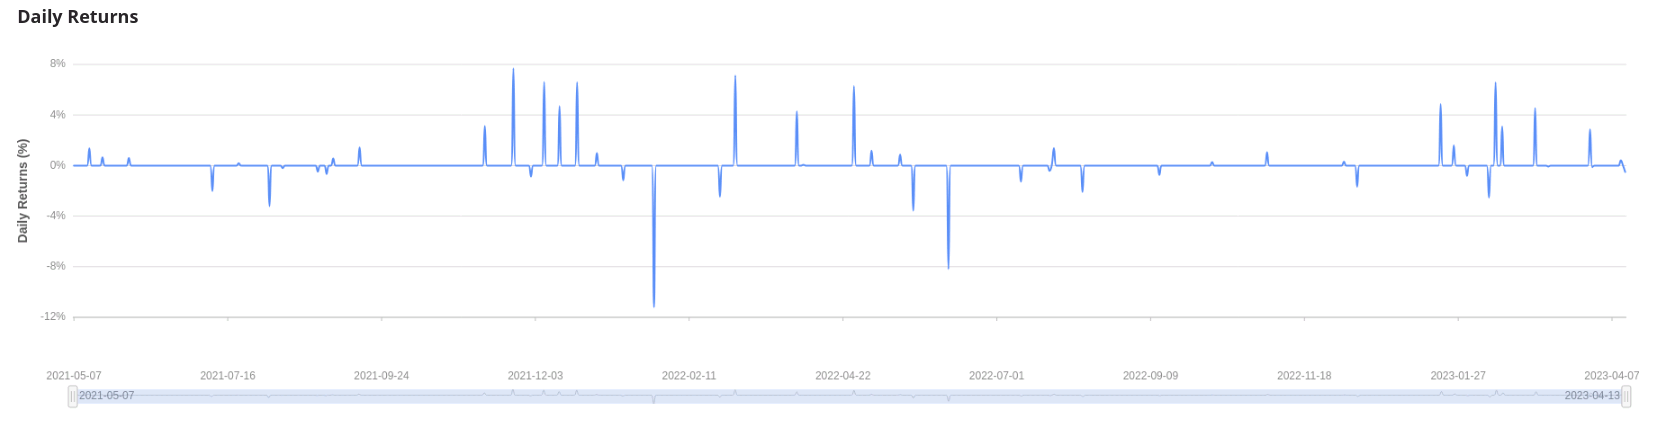
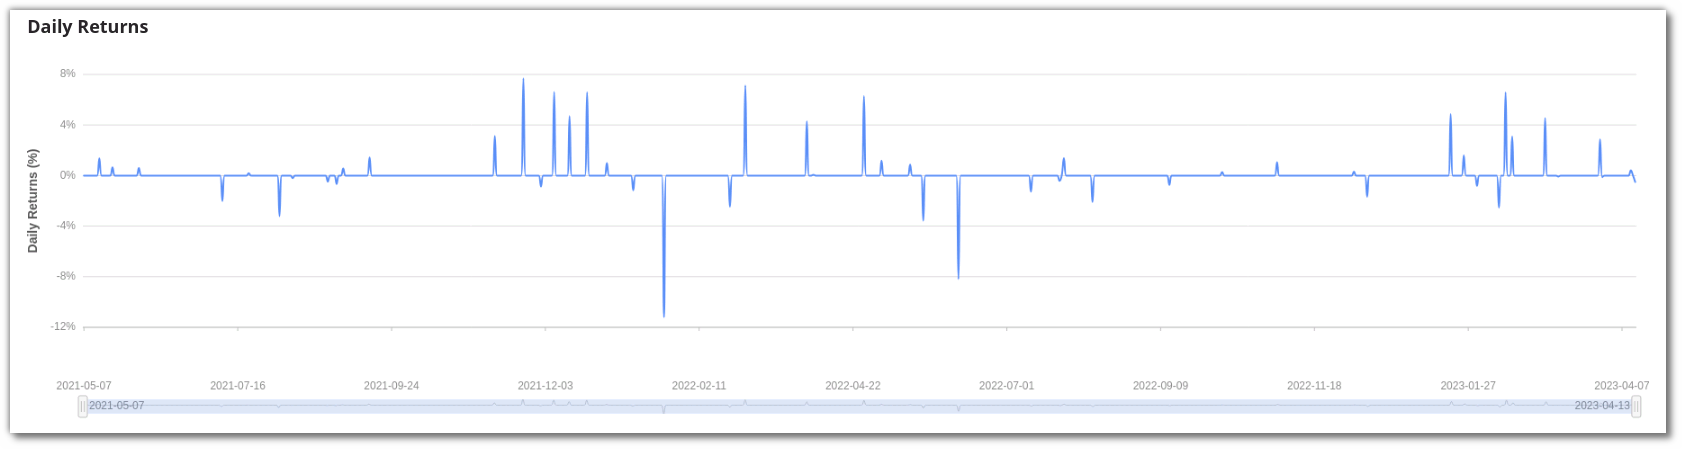
added analytics images edited of pyalgo and pythobuild

diff --git a/docs/analytics/pyalgotrading_analytics.md b/docs/analytics/pyalgotrading_analytics.md
@@ -1,60 +1,66 @@
 # Pyalgotrading Analytics
+- ### Metric Values and Statistics:
+    ![performance metrics a](imgs/performance_metrics_a.png)
+    ![performance metrics a](imgs/performance_metrics_b.png)
 
 - ### Cumulative Returns:
     - The **Cumulative Returns** chart illustrates how our strategy's returns value has evolved over time in percentage. 
     - Positive values indicate gains, while negatives reflect losses. Bigger positive returns are more favourable. 
     - Keep in mind, this chart focuses on gains and losses, excluding risk and timing considerations.
     - There are 2 sub categories of cumulative returns chart depending on the scale we are using. One is **normal scaled** and other is **log scaled**
-      - [![cummulative returns normal](imgs/cummulative_returns_normal.png)]
-      - [![cummulative returns log](imgs/cummulative_returns_log.png)]
+        ![cummulative returns normal](imgs/cummulative_returns_normal.png)
+        ![cummulative returns log](imgs/cummulative_returns_log.png)
    
 - ### End of Year Returns (EoY):
     - The **End of Year Returns** chart showcases our strategy's annual performance as a percentage. 
     - It quantifies its overall performance, considering gains or losses throughout each year.
-    - [![eoy returns](imgs/eoy_returns.png)
+        ![eoy returns](imgs/eoy_returns.png)
 
 - ### Distributions of Monthly Returns (Histogram)
     - In the **Monthly Returns Distribution Histogram**, we see the frequency distribution of different levels of returns over consecutive months. 
     - This histogram helps us understand the range and patterns in monthly returns, shedding light on our strategy's volatility and performance trends.
-    - [![monthly returns histogram](imgs/monthly_returns_histogram.png)]
+        ![monthly returns histogram](imgs/monthly_returns_histogram.png)
 
 - ### Daily Returns:
     - The **Daily Returns Chart** portrays the percentage change in our strategy's returns between trading days. 
     - It provides insights into short-term volatility, trend analysis, and risk assessment.
-    - [![daily returns histogram](imgs/daily_returns.png)]
+        ![daily returns histogram](imgs/daily_returns.png)
 
 - ### Rolling Volatility (6 months)
     - A **Rolling Volatility (6 months)** Plot showcases the changing volatility of an investment over time using a rolling window of six months. 
     - This plot reveals how the investment's price fluctuations vary as the window moves across the dataset. 
     - It provides insights into short-term volatility patterns, helping investors understand how the investment's risk level evolves in response to different market conditions.
+        ![daily returns histogram](imgs/rolling_volatility.png)
 
 - ### Rolling Sharpe (6 months)
     - A **Rolling Sharpe (6 months)** Plot illustrates the dynamic changes in the Sharpe ratio over time using a rolling window of six months. 
     - The plot shows how the risk-adjusted performance of an investment fluctuates as the window moves through the dataset. 
     - This visualization helps investors understand how the Sharpe ratio varies with changing market conditions and provides insights into the investment's consistency and risk-return trade-offs over short-term periods.
+        ![daily returns histogram](imgs/rolling_sharpe.png)
 
 - ### Rolling Sortino (6 months)
     - A **Rolling Sortino (6 months)** Plot visualizes the variation in the Sortino ratio over time using a rolling window of six months. 
     - This plot demonstrates how the investment's risk-adjusted performance, considering only downside volatility, changes as the window progresses through the data. 
     - It offers insights into how the Sortino ratio evolves with market conditions, helping investors assess the investment's ability to generate favorable risk-adjusted returns over short-term intervals.
+        ![daily returns histogram](imgs/rolling_sortino.png)
 
 - ### Worst 5 Drawdown Periods
     - A **Worst 5 Drawdown Periods** plot displays the top five periods during which the strategy experienced the largest declines from peak to trough. 
     - This visualization helps strategists understand the most significant loss-making episodes in the strategy's run. 
     - It shows the magnitude and duration of these drawdowns, providing insights into the strategy's risk and potential vulnerabilities.
-    - [![worst 5 drawdown plot](imgs/worst_5_drawdown_plot.png)]
+       ![worst 5 drawdown plot](imgs/worst_5_drawdown_plot.png)
 
 - ### Underwater Plot:
     - The **Underwater Plot** visually narrates our strategy's performance concerning its past peaks. 
     - It showcases how much our returns value has dropped from its highest point over time. 
     - This aids in visualising periods of drawdown and recovery, offering insights into historical risk and resilience.
-    - [![underwater plot](imgs/underwater_plot.png)]
+       ![underwater plot](imgs/underwater_plot.png)
 
 - ### Monthly Returns (Heatmap):
     - The **Monthly Returns Heatmap** offers a colour-coded view of our strategy's performance across months. 
     - Shades of green indicate positive returns, while shades of red signify losses. 
     - This visual tool helps spot trends and patterns, aiding in identifying strong and weak performance periods.
-    - [![monthly returns heatmap](imgs/monthly_returns_heatmap.png)]
+       ![monthly returns heatmap](imgs/monthly_returns_heatmap.png)
 
-- ### Return Quantiles
+[//]: # (- ### Return Quantiles)
 
